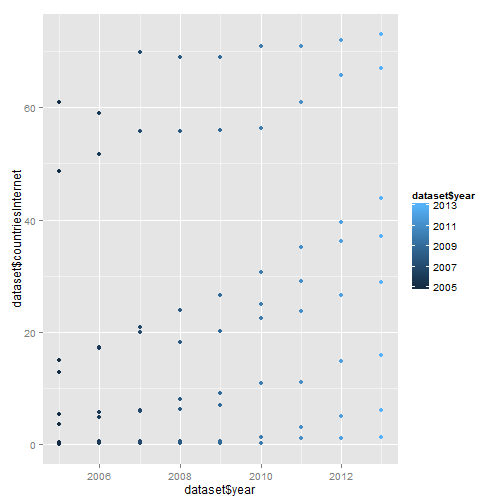
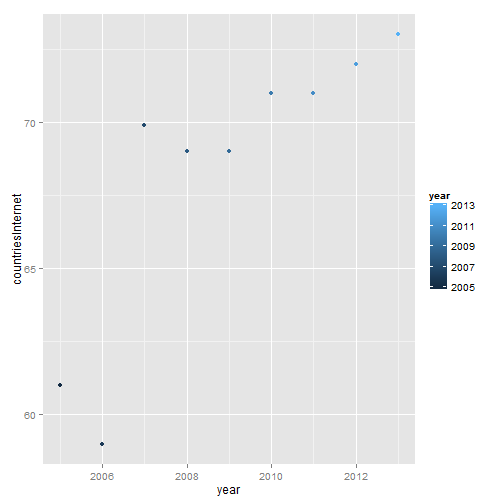
Presentation Slide

diff --git a/presentation-rpubs.html b/presentation-rpubs.html
@@ -791,15 +791,14 @@ hljs.initHighlightingOnLoad();
 <section data-transition="linear" data-transition-speed="default">
 <h3>Analysis</h3>
 <div class="slideContent" >
-<p>The data shows that Internet penetration trend among ASEAN countries are totally diversified.</p>
+<p>The data shows that Internet and Mobile penetration trend among ASEAN countries are totally diversified. </p>
 
-<p>Singapore as the most developed country in region, dominate Internet and Mobile penetration in the region.
-While Cambodia and Myanmar in the bottom 2.</p>
+<p>Singapore dominate Internet and Mobile penetration in the region. While Cambodia and Myanmar in the bottom 2.</p>
 
-<p>The following code plots Internet and Mobile Trend in Singapore compare to other ASEAN countries.</p>
+<p>The following code plots Internet and Mobile Trend in Singapore:</p>
 
-<pre><code class="r">qplot(&quot;year&quot;, &quot;countriesInternet&quot;, data=subset(dataset, countries==&quot;Singapore&quot;))
-qplot(&quot;year&quot;, &quot;countriesMobile&quot;, data=subset(dataset, countries==&quot;Singapore&quot;))
+<pre><code class="r">qplot(year, countriesInternet, data=subset(dataset, as.character(countries)==&quot;Singapore&quot;), color=year)
+qplot(year, countriesMobile, data=subset(dataset, as.character(countries) ==&quot;Singapore&quot;), color=year)
 </code></pre>
 
 </div>
@@ -808,8 +807,8 @@ qplot(&quot;year&quot;, &quot;countriesMobile&quot;, data=subset(dataset, countr
 <section data-transition="linear" data-transition-speed="default">
 <h3>Effective Plot</h3>
 <div class="column column1 slideContent" >
-<p>Single country plot: clear info, no trend.
[1 lines of base64/hex data omitted]
+<p>Single country plot: clear info, no countries comparison trend.
[1 lines of base64/hex data omitted]
 
 
 </div>
@@ -817,8 +816,8 @@ qplot(&quot;year&quot;, &quot;countriesMobile&quot;, data=subset(dataset, countr
 <div class="column column2 slideContent" >
 
 
-<p>Time series plot: too much info but can see trends
[1 lines of base64/hex data omitted]
+<p>Time series plot: too much info but can see countries comparison trends
[1 lines of base64/hex data omitted]
 
 </div>
 

diff --git a/presentation.md b/presentation.md
@@ -29,30 +29,29 @@ Shiny is used to present the timeseries data:
 Analysis
 ========================================================
 
-The data shows that Internet penetration trend among ASEAN countries are totally diversified.
+The data shows that Internet and Mobile penetration trend among ASEAN countries are totally diversified. 
 
-Singapore as the most developed country in region, dominate Internet and Mobile penetration in the region.
-While Cambodia and Myanmar in the bottom 2.
+Singapore dominate Internet and Mobile penetration in the region. While Cambodia and Myanmar in the bottom 2.
 
-The following code plots Internet and Mobile Trend in Singapore compare to other ASEAN countries.
+The following code plots Internet and Mobile Trend in Singapore:
 
 
 
 ```r
-qplot("year", "countriesInternet", data=subset(dataset, countries=="Singapore"))
-qplot("year", "countriesMobile", data=subset(dataset, countries=="Singapore"))
+qplot(year, countriesInternet, data=subset(dataset, as.character(countries)=="Singapore"), color=year)
+qplot(year, countriesMobile, data=subset(dataset, as.character(countries) =="Singapore"), color=year)
 ```
 
 
 Effective Plot
 ========================================================
 
-Single country plot: clear info, no trend.
+Single country plot: clear info, no countries comparison trend.
 ![plot of chunk unnamed-chunk-3](presentation-figure/unnamed-chunk-3-1.png) 
 
 ***
 
-Time series plot: too much info but can see trends
+Time series plot: too much info but can see countries comparison trends
 ![plot of chunk unnamed-chunk-4](presentation-figure/unnamed-chunk-4-1.png) 
 
 
